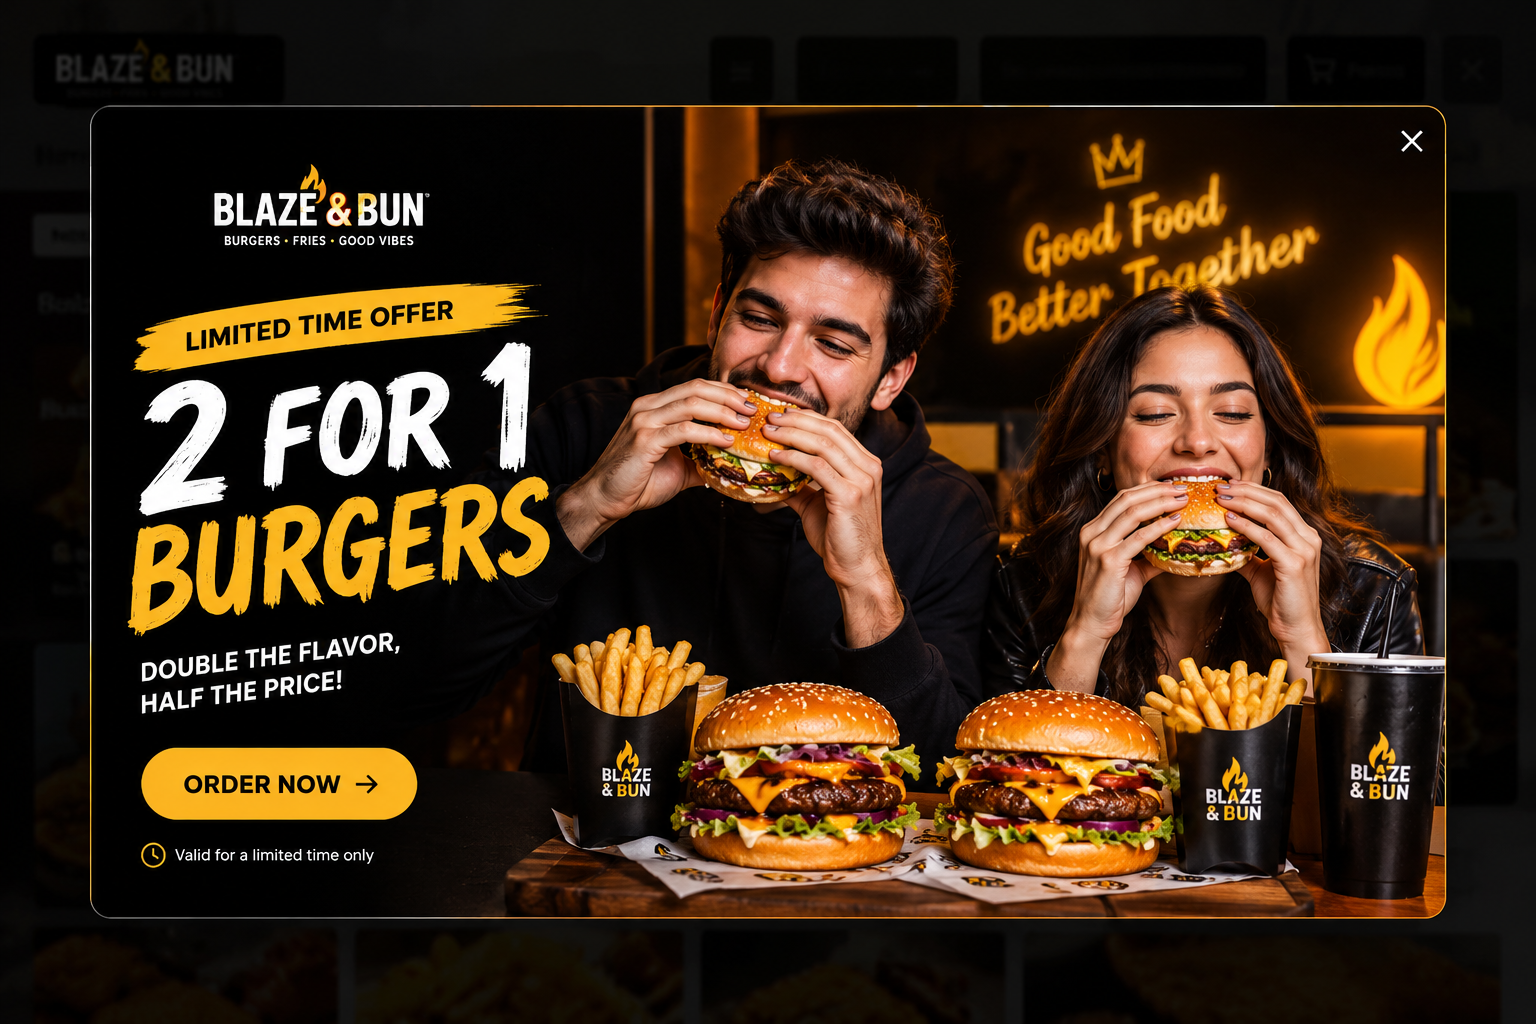
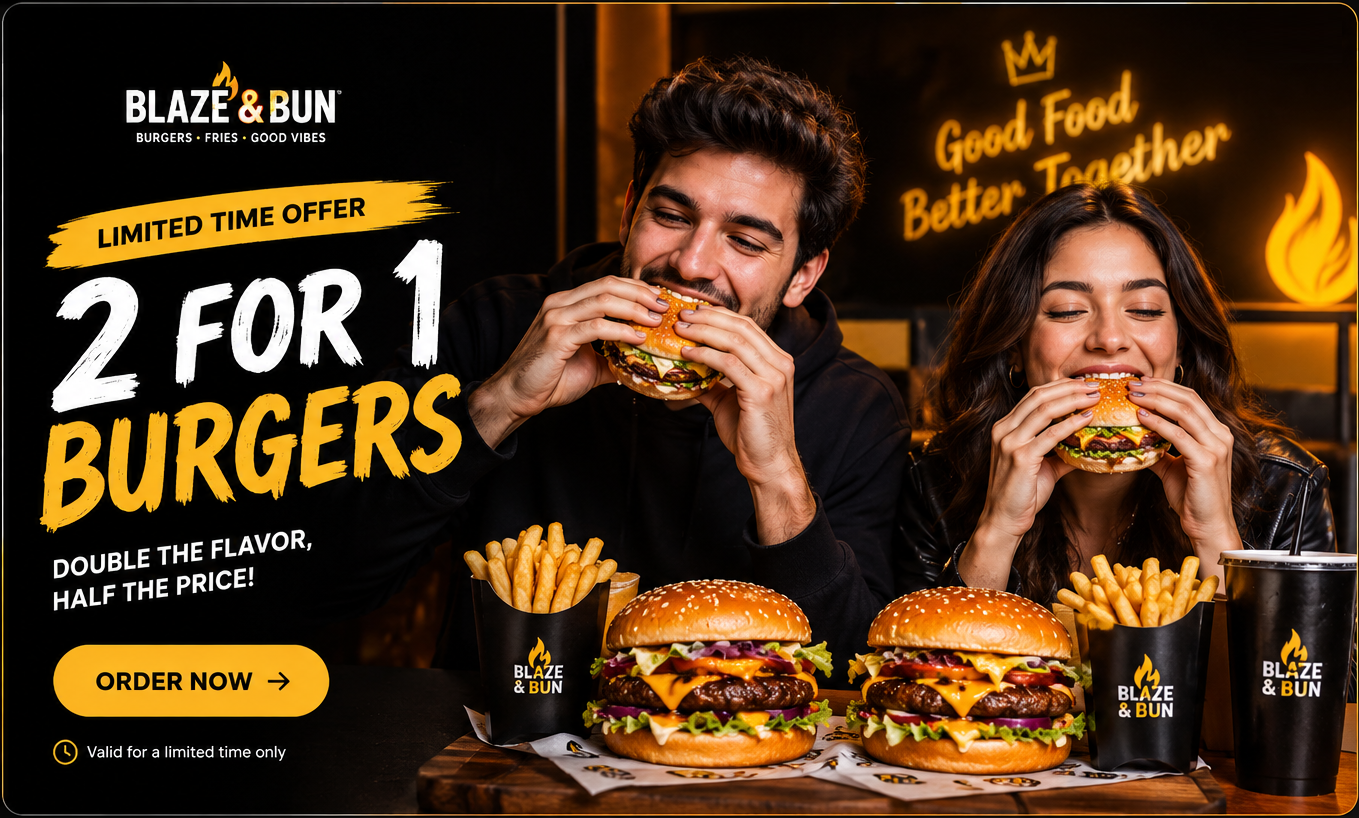
Blaze&Bun V10

diff --git a/src/components/layout/PromoPopup.tsx b/src/components/layout/PromoPopup.tsx
@@ -1,0 +1,90 @@
+"use client";
+
+import { useEffect, useState } from "react";
+import Image from "next/image";
+import Link from "next/link";
+import { AnimatePresence, motion } from "framer-motion";
+import { X } from "lucide-react";
+import { useStore } from "@/store/useStore";
+
+const SESSION_KEY = "bb-promo-2-for-1-seen";
+
+/** One-off promotional overlay, shown after a location is confirmed. */
+export function PromoPopup() {
+  const hydrated = useStore((s) => s.hydrated);
+  const locationConfirmed = useStore((s) => s.locationConfirmed);
+  const locationOpen = useStore((s) => s.locationOpen);
+  const [seen] = useState(
+    () =>
+      typeof window !== "undefined" &&
+      sessionStorage.getItem(SESSION_KEY) === "1",
+  );
+  const [dismissed, setDismissed] = useState(false);
+
+  const open =
+    hydrated && locationConfirmed && !locationOpen && !seen && !dismissed;
+
+  useEffect(() => {
+    if (open) sessionStorage.setItem(SESSION_KEY, "1");
+  }, [open]);
+
+  useEffect(() => {
+    if (!open) return;
+    const onKey = (e: KeyboardEvent) => {
+      if (e.key === "Escape") setDismissed(true);
+    };
+    window.addEventListener("keydown", onKey);
+    return () => window.removeEventListener("keydown", onKey);
+  }, [open]);
+
+  return (
+    <AnimatePresence>
+      {open && (
+        <div className="fixed inset-0 z-[100] flex items-center justify-center p-4">
+          <motion.div
+            initial={{ opacity: 0 }}
+            animate={{ opacity: 1 }}
+            exit={{ opacity: 0 }}
+            onClick={() => setDismissed(true)}
+            className="absolute inset-0 bg-charcoal/70 backdrop-blur-md"
+          />
+          {/* ponytail: max-w-2xl/3xl centers hero banner; whole card links to /menu since graphic bakes in its own CTA */}
+          <motion.div
+            role="dialog"
+            aria-modal="true"
+            aria-label="2 for 1 promotion"
+            initial={{ opacity: 0, y: 40, scale: 0.97 }}
+            animate={{ opacity: 1, y: 0, scale: 1 }}
+            exit={{ opacity: 0, y: 40, scale: 0.97 }}
+            transition={{ type: "spring", stiffness: 320, damping: 32 }}
+            className="relative z-10 w-full max-w-2xl sm:max-w-3xl overflow-hidden rounded-[28px] bg-charcoal shadow-2xl"
+          >
+            <button
+              type="button"
+              onClick={() => setDismissed(true)}
+              aria-label="Close promotion"
+              className="absolute right-3.5 top-3.5 z-20 grid h-10 w-10 place-items-center rounded-full bg-charcoal/80 text-cream backdrop-blur-sm transition-colors hover:bg-ember hover:text-white"
+            >
+              <X className="h-5 w-5" />
+            </button>
+            <Link
+              href="/menu"
+              onClick={() => setDismissed(true)}
+              className="block cursor-pointer transition-transform duration-200 hover:scale-[1.008] active:scale-[0.992]"
+            >
+              <Image
+                src="/images/promotions/blaze-bun-2-for-1.png"
+                alt="Blaze & Bun 2 for 1 promotion"
+                width={1359}
+                height={818}
+                sizes="(max-width: 768px) 100vw, 768px"
+                className="h-auto w-full object-cover"
+                priority
+              />
+            </Link>
+          </motion.div>
+        </div>
+      )}
+    </AnimatePresence>
+  );
+}

diff --git a/src/components/layout/AppProviders.tsx b/src/components/layout/AppProviders.tsx
@@ -10,6 +10,7 @@ import {
 } from "@/lib/cloud";
 import { CartDrawer } from "./CartDrawer";
 import { OrderFlowModal } from "./OrderFlowModal";
+import { PromoPopup } from "./PromoPopup";
 import { ToastHost } from "@/components/ui/Toast";
 import { FloatingCart } from "@/components/ui/FloatingCart";
 import { CustomCursor } from "@/components/ui/CustomCursor";
@@ -154,6 +155,7 @@ export function AppProviders({ children }: { children: ReactNode }) {
       {children}
       <CartDrawer />
       <OrderFlowModal />
+      <PromoPopup />
       <FloatingCart />
       <ToastHost />
       <CustomCursor />
